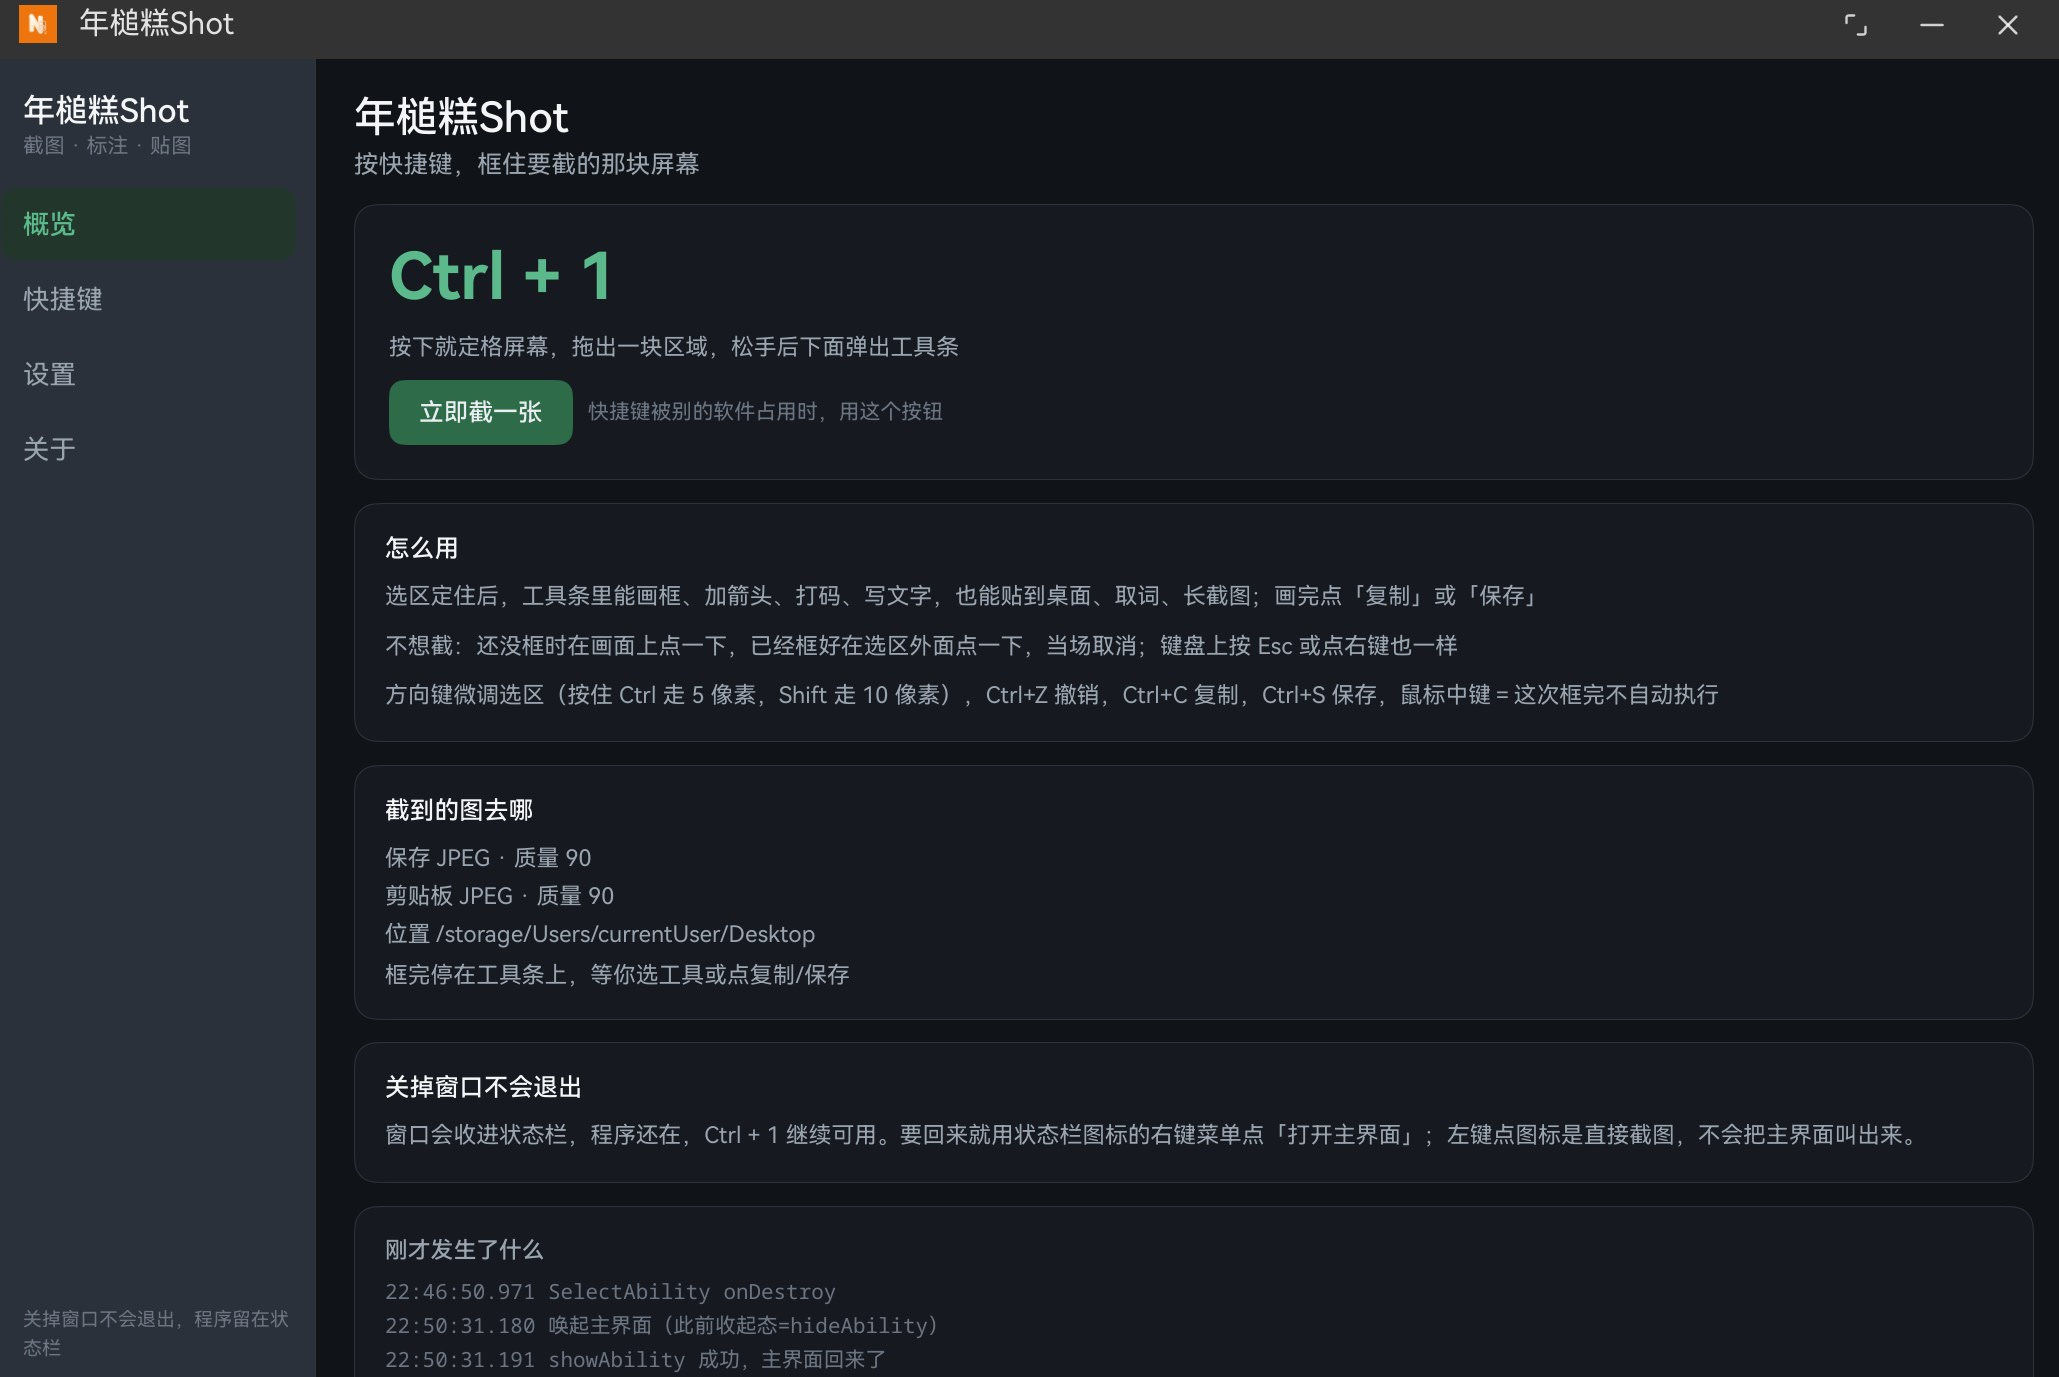
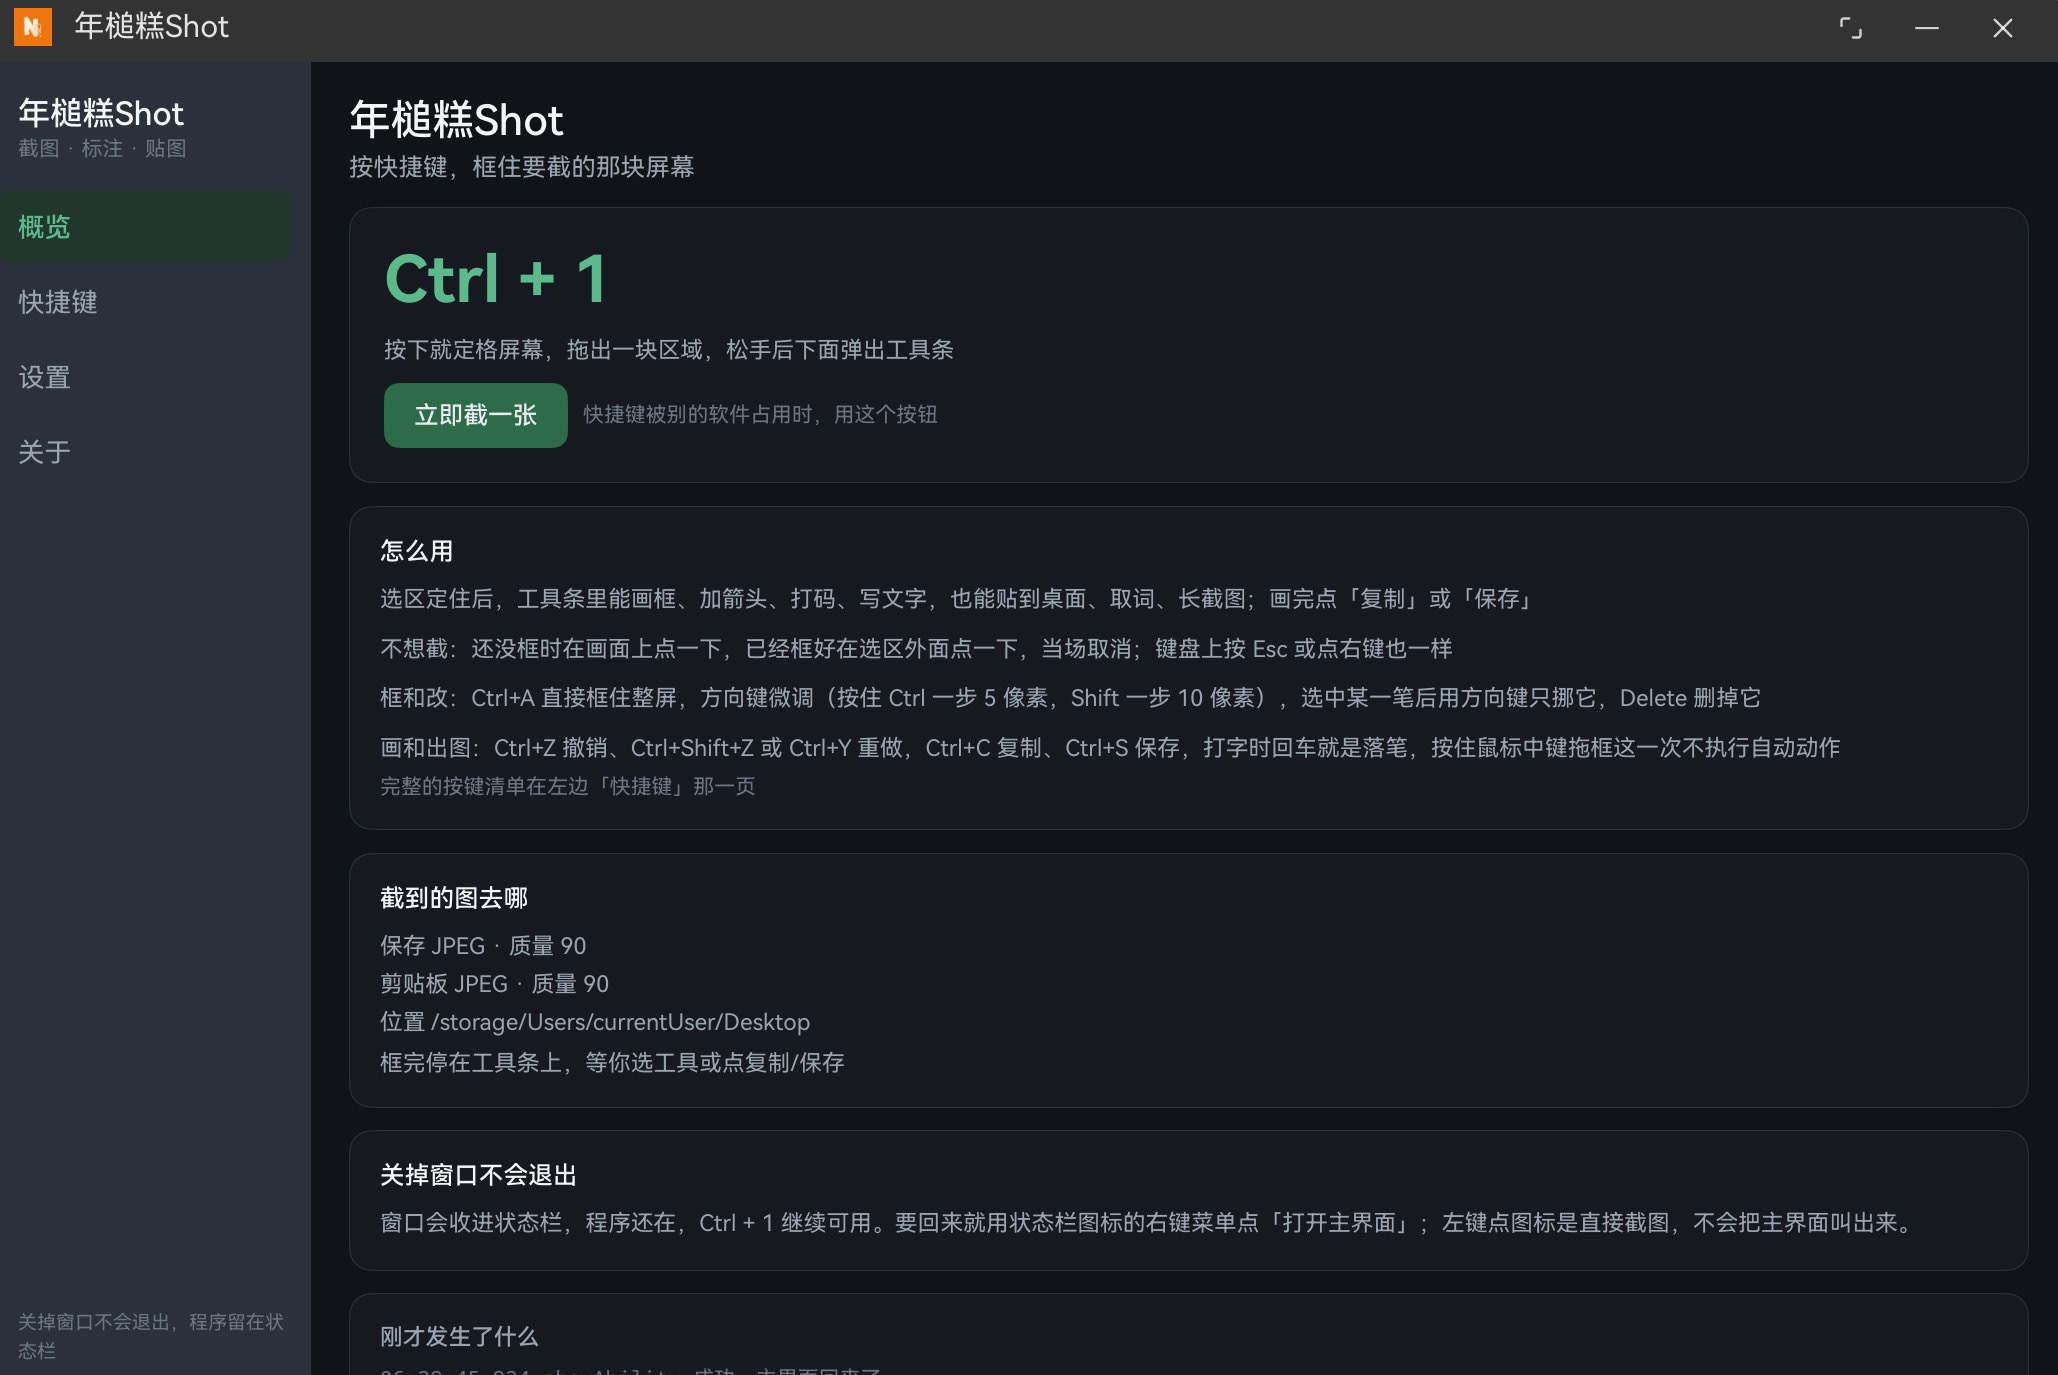
增加取词提示以及快捷键使用表

diff --git a/README.md b/README.md
@@ -12,6 +12,9 @@
 2. 屏幕定住，按住拖出一块区域，角上实时显示尺寸。
 3. 松手，选区固定，旁边出现一条工具条。
 4. 画完点「保存」或「复制」。也可以点「贴图」「取词」「长截图」。
+5. 不想截了就按 `Esc`、点鼠标右键，或者点工具条最右边的「关闭」；还没框的时候在画面上点一下、已经框好的时候在选区外面点一下，也是当场取消——触屏上没有前三个，点一下是唯一出口。
+
+常用的几个键（`Ctrl+A` 框整屏、方向键微调、`Ctrl+Z` 撤销、`Ctrl+C` / `Ctrl+S` 直接出图）列在下面，应用里的「快捷键」页有完整一份。
 
 ## 功能
 
@@ -72,6 +75,26 @@
 
 长图最大64MB，太长的话建议分段截。
 
+### 按键
+
+能改的只有那个全局快捷键（默认 `Ctrl+1`），下面这些是框选层自己认的键，改不了：
+
+| 键 | 做什么 |
+| --- | --- |
+| `Esc`、鼠标右键、工具条上的「关闭」 | 取消这次截图。正在打字时先丢掉这一段，长截图采集中则是收尾出图 |
+| 点一下 | 还没框时在画面上点一下、框好之后在选区外面点一下，都是取消 |
+| `Ctrl + A` | 框住整个屏幕 |
+| 方向键 | 微调：选中了某一笔就挪那一笔，没选中就挪选区 |
+| `Ctrl` 或 `Shift` + 方向键 | 微调一步 5 像素，或 10 像素 |
+| `Ctrl + Z` | 撤销一步 |
+| `Ctrl + Shift + Z`、`Ctrl + Y` | 重做一步 |
+| `Delete` | 删掉选中的那一笔 |
+| `Ctrl + C`、`Ctrl + S` | 把选区（带着标注）复制进剪贴板、保存成文件 |
+| `Enter` | 打字时回车就是落笔，和点框外面一样 |
+| 鼠标中键 | 按住它拖框，这一次框完不执行自动动作 |
+
+贴到桌面上的那扇小窗只认三个键：左键按住拖＝挪窗，右键＝菜单（复制、保存、取词、关闭），`Esc`＝关掉这扇窗（取词结果面板开着时先收面板）。
+
 ### 收在状态栏
 
 - 打开应用就直接挂到状态栏，不弹主界面。要开主界面，用右键菜单里的「打开主界面」。
@@ -89,7 +112,7 @@
 - **外观**：跟随系统 / 浅色 / 深色，切换后所有窗口一起变。
 - **输出**：保存成文件用哪个格式，写出来的就是哪个格式的文件；剪贴板的格式与质量只管压缩，粘出来存成 PNG 还是 JPEG 由对方应用决定。保存目录可以自己挑。
 - **框选**：框选后自动动作、记忆上次的框（下次按同样的比例摆回）、参考线、四角坐标。
-- **快捷键**：默认 `Ctrl+1`，可以改成 Ctrl / Shift / Alt 里的一个或两个，配字母、数字或者 F1–F12。改不上会退回原来的组合，不会出现「改了但没生效」。
+- **快捷键**：默认 `Ctrl+1`，可以改成 Ctrl / Shift / Alt 里的一个或两个，配字母、数字或者 F1–F12。改不上会退回原来的组合，不会出现「改了但没生效」。这一页还列着框选层和贴图窗的那些固定按键。
 - **日志**：设置页最下面有最近 30 行，出问题时可以复制出来。完整日志在应用沙箱的 `files/probe.log`。
 
 ![主界面概览](assets/screenshots/02-overview.png)
